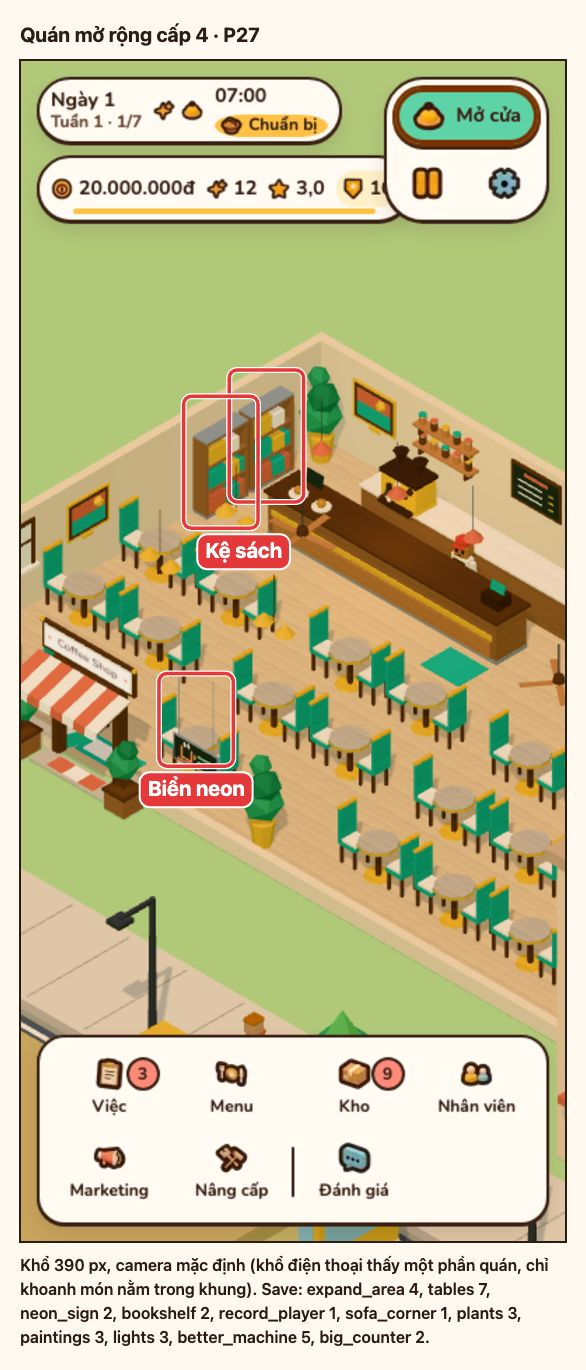
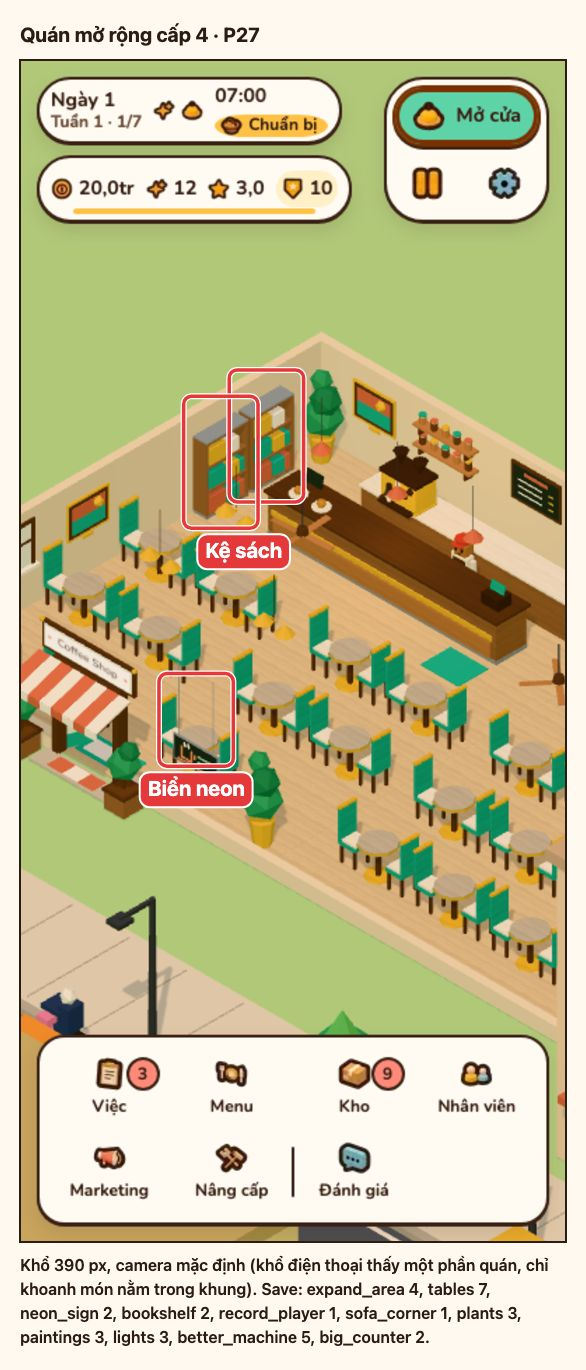
docs(media): recapture P27 shots on HEAD with the merged HUD CSS
Re-run npm run media:p27 after the main merge so the HUD shots include
eeccb88 and 9923d10; 14 shots, no label warnings.

diff --git a/docs/reports/p27-retention.md b/docs/reports/p27-retention.md
@@ -2,7 +2,7 @@
 
 Báo cáo kiểm chứng P27 so với P26 `d58350b`: kết quả `npm run check`, thời gian tới Main Menu và cảnh 3D, kích thước chunk gzip, khung hình và long task, save cũ, layout, ảnh có khoanh. Luật và con số của các tính năng: [spec/p27-retention.md](../spec/p27-retention.md).
 
-`npm run check`, bản build, test save, khởi động và khung hình đo trên HEAD sau merge `main` (`d8d5a45`, kéo theo `eeccb88` `fix(hud): keep the top clusters on one row`). Layout cũng đo trên HEAD; ảnh là lượt trước merge `main`.
+`npm run check`, bản build, test save, khởi động và khung hình đo trên HEAD sau merge `main` (`d8d5a45`, kéo theo `eeccb88` `fix(hud): keep the top clusters on one row`). Layout và ảnh cũng làm trên HEAD.
 
 | Phần | Lệnh |
 | --- | --- |
@@ -68,7 +68,7 @@ P27 làm chậm thật Main Menu Mobile: chậm hơn base ở cả hai lượt `
 | `npm run layout` phần ván mới, HUD, ngày sự kiện (HEAD) | PASS mọi mục | PASS: 54/54. Tràn ngang 0, CLS Kho 0, HUD 2 hàng ở 390 / 768 / 1100 px, 1 hàng ở 1280 / 1440 px, mọi nút ≥ 44 px |
 | Layout P25 (HEAD) | PASS mọi mục | PASS: 20/20 |
 | Layout P27 (mục mới, HEAD) | Không tràn, đủ phần mới, nút ≥ 44 px | PASS: 24/24. Việc (thẻ quà, đơn đặc biệt, thành tựu; 9 nút), Nhân viên (chip đặc điểm, thanh KN, xác nhận Đào tạo; 12 nút), Nâng cấp (2 dòng giá Tem; 20 nút) |
-| `npm run media:p27` | Nhãn và vòng khoanh trong khung, không `!!` | PASS: 14 ảnh, 0 cảnh báo |
+| `npm run media:p27` (HEAD) | Nhãn và vòng khoanh trong khung, không `!!` | PASS: 14 ảnh, 0 cảnh báo |
 
 Đường khởi động tới Main Menu chỉ thêm `pendingGiftDay` trong `src/ui/screens/mainMenu.ts` và hai trường quà trong `listSlotSummaries` (`src/save/slots.ts`): so ngày và đọc hai trường của save, không tải thêm chunk.
 
@@ -338,7 +338,7 @@ PASS / 44 checks
 
 ### Trước/sau
 
-Mỗi ảnh ghép P26 `d58350b` (trái) cạnh P27 (phải), cùng save và cùng khổ. Mọi ảnh ở mục này chụp trước merge `main` (`ec75819`), tức trước `eeccb88` (HUD một hàng) và `9923d10` (tiền rút gọn ở khổ ≤ 480 px): hai ảnh HUD chưa có CSS HUD hiện tại.
+Mỗi ảnh ghép P26 `d58350b` (trái) cạnh P27 (phải), cùng save và cùng khổ. Mọi ảnh chụp trên HEAD, có CSS HUD của `eeccb88` (HUD một hàng) và `9923d10` (tiền rút gọn ở khổ ≤ 480 px).
 
 | Cảnh | Khổ | Chỗ cần nhìn | Ảnh |
 | --- | --- | --- | --- |
